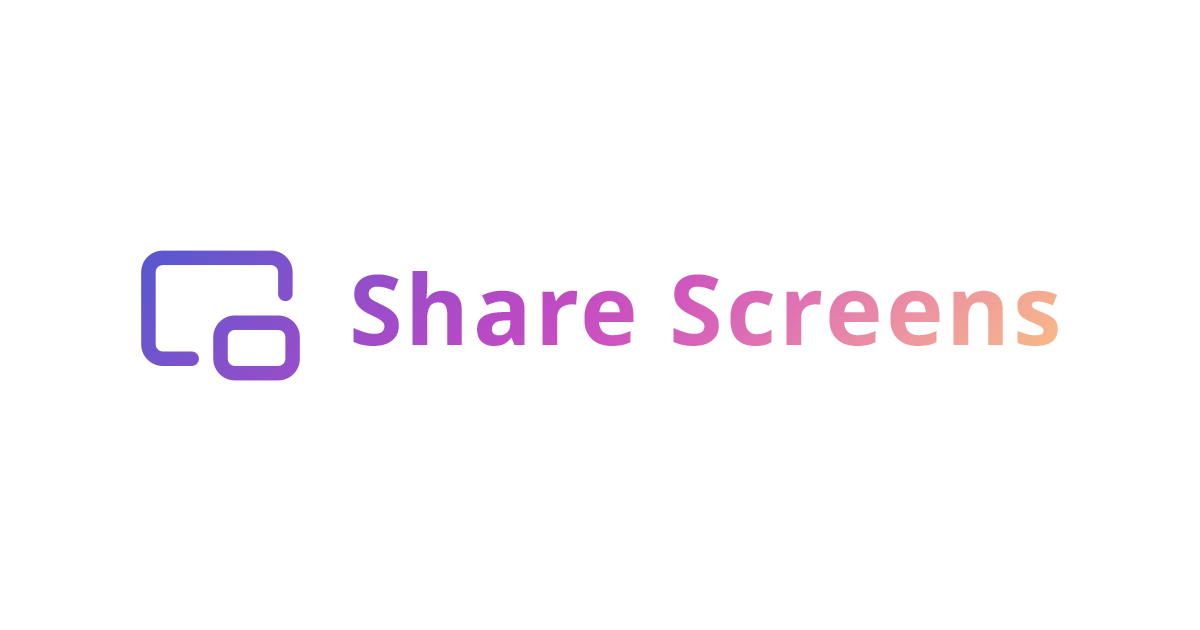
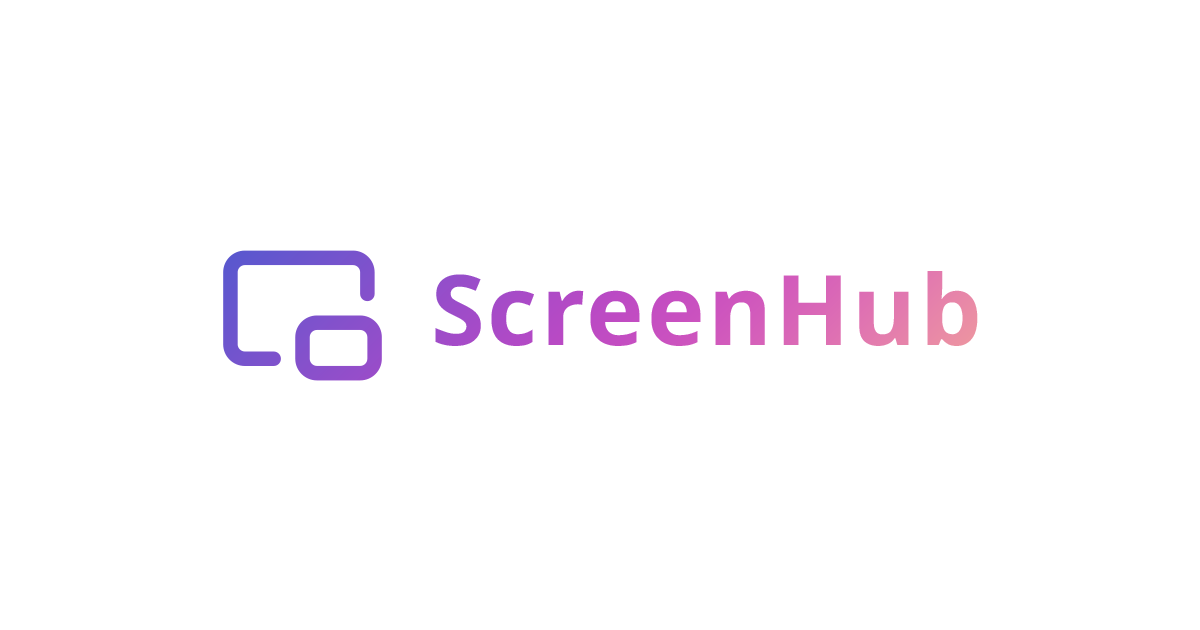
Change name to ScreenHub

Changed region(s): [[0.0925, 0.3921, 0.8942, 0.6032]]

diff --git a/index.html b/index.html
@@ -3,12 +3,12 @@
   <head>
     <meta charset="UTF-8" />
     <meta name="viewport" content="width=device-width, initial-scale=1.0" />
-    <meta name="apple-mobile-web-app-title" content="Share Screens" />
-    <meta property="og:title" content="Share Screens" />
+    <meta name="apple-mobile-web-app-title" content="ScreenHub" />
+    <meta property="og:title" content="ScreenHub" />
     <meta property="og:type" content="website" />
-    <meta property="og:url" content="https://share-screens.ysk.im" />
-    <meta property="og:image" content="https://share-screens.ysk.im/og-image.png" />
-    <meta property="og:site_name" content="Share Screens" />
+    <meta property="og:url" content="https://screen-hub.ysk.im" />
+    <meta property="og:image" content="https://screen-hub.ysk.im/og-image.png" />
+    <meta property="og:site_name" content="ScreenHub" />
     <meta
       property="og:description"
       content="A small utility which brings a better screen sharing experience for your online meetings."
@@ -19,7 +19,7 @@
     <link rel="shortcut icon" href="/favicon.ico" />
     <link rel="apple-touch-icon" sizes="180x180" href="/apple-touch-icon.png" />
     <link rel="manifest" href="/site.webmanifest" />
-    <title>Share Screens</title>
+    <title>ScreenHub</title>
   </head>
   <body>
     <div id="root"></div>

diff --git a/src/components/app-sidebar.tsx b/src/components/app-sidebar.tsx
@@ -48,7 +48,7 @@ export function AppSidebar() {
                 //   WebkitTextFillColor: 'transparent',
                 // }}
               >
-                Share Screens
+                ScreenHub
               </h1>
               <div>
                 <svg width='0' height='0'>
@@ -109,7 +109,7 @@ export function AppSidebar() {
       </SidebarContent>
       <SidebarFooter>
         <SidebarMenuButton tooltip={'GitHub'} asChild className='w-fit'>
-          <a href='https://github.com/yuhsak/share-screens' target='_blank'>
+          <a href='https://github.com/yuhsak/screen-hub' target='_blank'>
             <GitHub />
           </a>
         </SidebarMenuButton>

diff --git a/README.md b/README.md
@@ -1,3 +1,5 @@
-# Share Screens
+# ScreenHub
 
 A small utility which brings a better screen sharing experience for your online meetings.
+
+https://screen-hub.ysk.im
